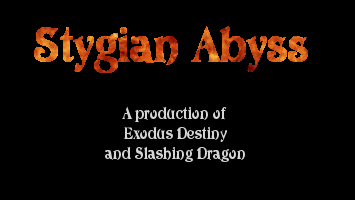
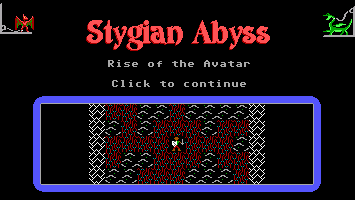
New title screen

diff --git a/web/js/TitleScreen.js b/web/js/TitleScreen.js
@@ -11,17 +11,6 @@ TitleScreen.prototype.step = function(){
 
 TitleScreen.prototype.loop = function(){
 	this.step();
-	
 	var ui = this.game.getUI();
 	ui.drawImage(this.game.images.titleScreen, 0, 0);
-	
-	if (this.blink-- > 15){
-		ui.font = this.game.font;
-		ui.fillStyle = "white";
-		ui.textAlign = "center";
-		ui.fillText("Click To Continue", ui.width / 2, 88);
-		ui.textAlign = "left";
-	}else if (this.blink == 0){
-		this.blink = 30;
-	}
 };
